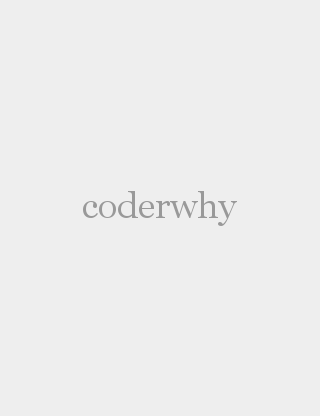
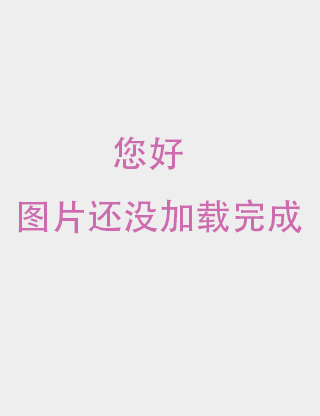
'7-28'

Changed region(s): [[0.1875, 0.4375, 0.9375, 0.5625], [0.3438, 0.3125, 0.5625, 0.4062], [0.0312, 0.4688, 0.1875, 0.5625]]

diff --git a/postcss.config.js b/postcss.config.js
@@ -1,0 +1,23 @@
+module.exports = {
+  plugins: {
+    autoprefixer: {},
+    "postcss-px-to-viewport": {
+      viewportwidth: 375,// 视窗的宽度，对应的是我们设计稿的宽度.
+      viewportHeight: 667, //视窗的高度，对应的是我们设计稿的高度.(也可以不配置)
+      unitPrecision: 5, //指定px^转换为视窗单位值的小数位数(很多时候无法整除)
+      viewportunit: 'vw', //指定需要转换成的视窗单位，建议使用vw
+      selectorBlacklist: [' ignore', ' tab-bar', ' tab-bar-item'], //指定不需要转换的类，后面再讲.
+      minPixelvalue: 1, //小于或等于i 1px不转换为视窗单位.
+      mediaQuery: false, //允许在媒体查询中转换“px
+      exclude: [/TabBar/], // 正则表达式
+    },
+  }
+}
+
+// 1.在js中使用正则: /正则相关规则/
+// 2.exclude中存放的元素必须是正则表达式
+// 3.按照排除的文件写对应的正则:
+//正则的规则:
+// 1> ^abc: 表示匹配的内容，必须以什么内容开头(以abc开头)
+// 2> abc$: 表示匹配的内容，必须以什么内容结尾(以abc结尾)
+// 2> abc$: 表示匹配的内容，必须以什么内容结尾(以abc结尾)

diff --git a/src/components/content/goods/GoodsListItem.vue b/src/components/content/goods/GoodsListItem.vue
@@ -1,7 +1,8 @@
 <template>
   <div class="goods-item" @click="itemClick">
     <!--<img :src="goodsItem.show.img" alt="" @load="imageLoad" @click="itemClick">-->
-    <img :src="shouImage" alt="" @load="imageLoad" @click="itemClick">
+    <!--<img :src="shouImage" alt="" @load="imageLoad" @click="itemClick">-->
+    <img v-lazy="shouImage" alt="" @load="imageLoad" @click="itemClick">
     <!--<img v-lazy="shouImage"  alt="" @load="imageLoad" >-->
     <!--<img v-lazy="shouImage" alt="" @load="imageLoad">-->
     <div class="goods-info">

diff --git a/src/main.js b/src/main.js
@@ -4,6 +4,7 @@ import router from './router'
 import store from  './store'
 
 import FastClick from 'fastclick'
+import VueLazyLoad from 'vue-lazyload'
 
 import toast from 'components/common/toast'
 
@@ -15,6 +16,11 @@ Vue.use(toast)
 
 //解决移动端300ms延迟
 FastClick.attach(document.body)
+
+//使用懒加载的插件
+Vue.use(VueLazyLoad,{
+  loading:require('./assets/img/common/placeholder.png')
+})
 
 new Vue({
   render: h => h(App),

diff --git a/src/views/cart/childComps/CartBottomBar.vue b/src/views/cart/childComps/CartBottomBar.vue
@@ -59,7 +59,7 @@
       },
       calcClick(){
         if(!this.isSelectAll){
-          this.$toast.show('请选择购买的商品',2000)
+          this.$toast.show('long提示您：请选择购买的商品',2000)
         }
       }
     }
